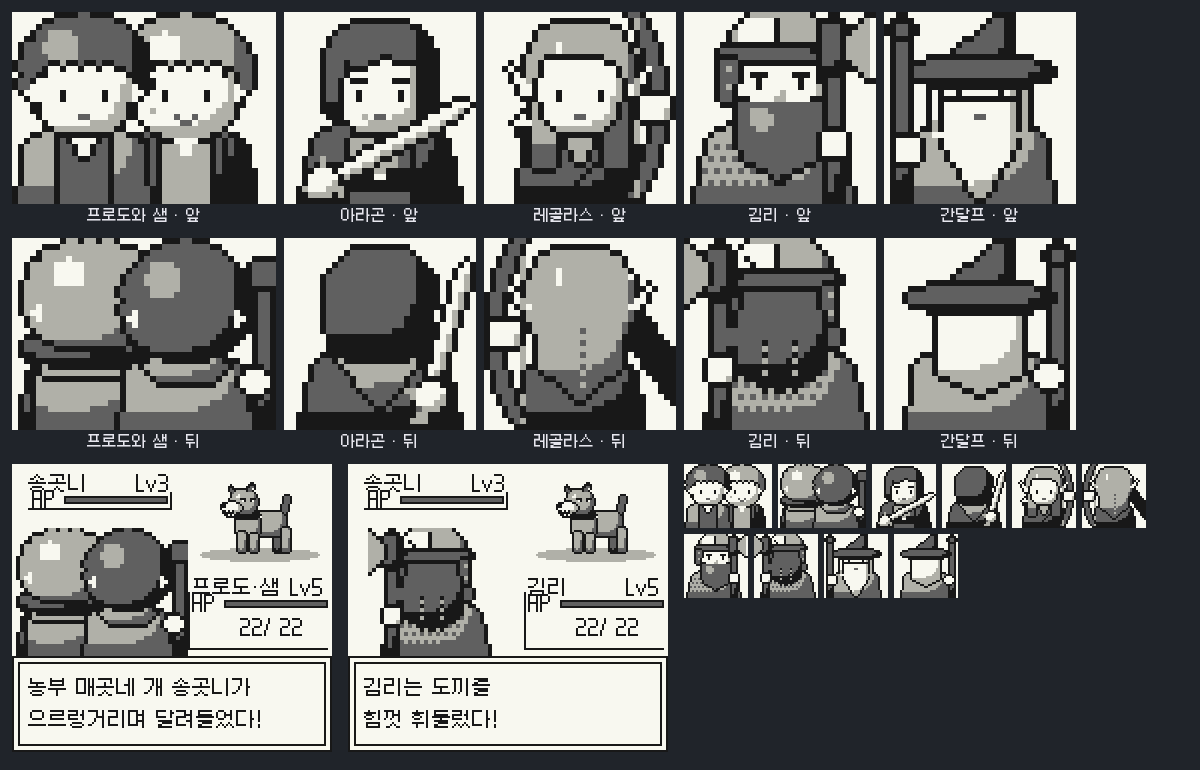
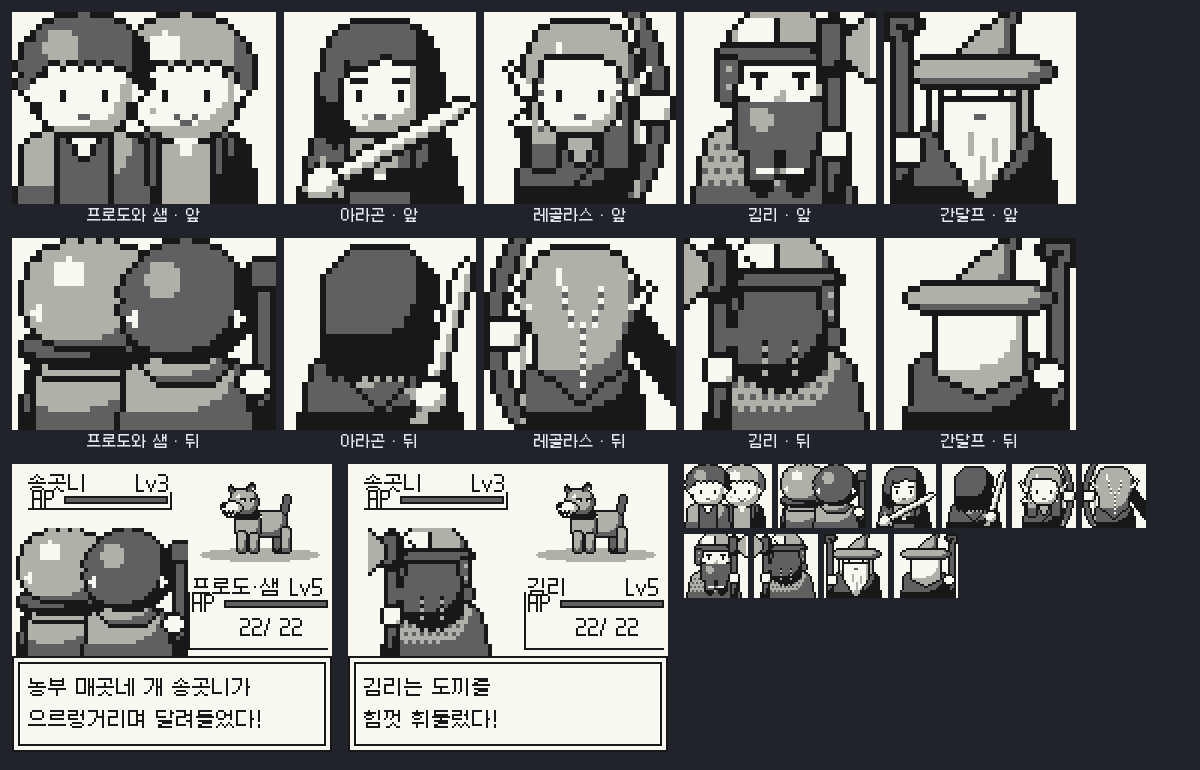
반지 원정: 영화 3부작 흐름 + 원작 대목으로 줄거리 재구성, 인물 외형 영화 분위기로
Claude-Session: https://claude.ai/code/session_01SP5jTWYuC4SCRJYicqB99F

diff --git a/ring/gb32.js b/ring/gb32.js
@@ -171,7 +171,7 @@
     fill(s, (x, y) => y >= 21 && Math.abs(x - 16) <= 4.5, 1, { cx: 16, cy: 25, rx: 4, ry: 6, shade: 2 }); // 가죽 웃옷
     fill(s, R(11, 27, 22, 29), 3, {});                                                                  // 칼띠
     stamp(s, 15, 27, ['00']);
-    const hid = fill(s, OR(E(16, 10.5, 9, 8.6), AND(R(7, 10, 25, 19), (x, y) => (Math.abs(x - 16) > 5 || y < 12) && y < 18.5 - (Math.floor(x) % 2))), 2, { cx: 16, cy: 10, rx: 9, ry: 9, shade: 3, at: 0.2 });
+    const hid = fill(s, OR(E(16, 10.5, 9, 8.6), AND(R(6, 10, 26, 23), (x, y) => (Math.abs(x - 16) > 5.5 || y < 12) && y < 22.5 - (Math.floor(x) % 2) - (Math.abs(x - 16) > 8.5 ? 2 : 0))), 2, { cx: 16, cy: 10, rx: 9, ry: 9, shade: 3, at: 0.2 });
     fill(s, (x, y) => E(16, 13, 6.4, 7.4)(x, y) && y > 7.6 + (x < 16 ? 1.4 : 0.4) + Math.abs(x - 16) * 0.2, 0, { cx: 16, cy: 13, rx: 6.4, ry: 7.4, shade: 1, at: 0.6 });
     stamp(s, 12, 13, EYE); stamp(s, 19, 13, EYE);
     stamp(s, 11, 11, ['333']); stamp(s, 18, 11, ['333']);                                              // 굵은 눈썹
@@ -185,7 +185,7 @@
     const s = mk();
     fill(s, body(16, 19, 11, 13), 2, { cx: 16, cy: 22, rx: 12, ry: 10, shade: 3 });
     fill(s, (x, y) => y >= 19 && y < 28 && Math.abs(x - 16) <= 8 - (y - 19) * 0.8, 1, { cx: 16, cy: 21, rx: 8, ry: 5, shade: 2 }); // 두건
-    fill(s, OR(E(16, 11, 9, 9), AND(R(7, 11, 25, 21), (x, y) => Math.abs(x - 16) <= 9 - (y - 11) * 0.12 && y < 20.5 - (Math.floor(x) % 2))), 2, { cx: 16, cy: 11, rx: 9, ry: 9, shade: 3, at: 0.2 });
+    fill(s, OR(E(16, 11, 9, 9), AND(R(6, 11, 26, 24), (x, y) => Math.abs(x - 16) <= 9.5 - (y - 11) * 0.1 && y < 23.5 - (Math.floor(x) % 2))), 2, { cx: 16, cy: 11, rx: 9, ry: 9, shade: 3, at: 0.2 });
     stamp(s, 25, 12, ['0', '0']);
     swordDiag(s, 22, 33, 31, 3);                                                                        // 앞으로 치켜든 장검
     fill(s, E(24.5, 26.5, 2.6, 2.2), 0, { cx: 24.5, cy: 26, rx: 2.6, ry: 2.2, shade: 1, at: 0.6 });
@@ -204,6 +204,7 @@
     stamp(s, 4, 9, ['0...', '.0..', '.00.', '..00', '..00']); stamp(s, 24, 9, flip(['0...', '.0..', '.00.', '..00', '..00']));
     stamp(s, 12, 13, EYE); stamp(s, 19, 13, EYE);
     stamp(s, 15, 17, ['22']);
+    for (const x of [9, 22]) for (let y = 9; y < 20; y++) px(s, x, y, y % 2 ? 2 : 0);                      // 관자놀이 땋은 머리
     // 왼손(화면 오른쪽)에 든 큰 활
     bow(s, 25, 1, 0, 31);
     fill(s, E(28.5, 16, 2.4, 2.4), 0, { cx: 28.5, cy: 16, rx: 2.4, ry: 2.4, shade: 1, at: 0.6 });
@@ -217,7 +218,8 @@
     fill(s, (x, y) => { const u = (x - 23) * 0.6 + (y - 12) * 0.8, v = (x - 23) * 0.8 - (y - 12) * 0.6; return u > 0 && u < 22 && Math.abs(v) < 2.2; }, 3, {});
     stamp(s, 21, 6, ['.0.0', '0000', '.00.']);
     fill(s, OR(E(16, 10.5, 8.8, 8.6), (x, y) => y > 10 && y < 27 - Math.abs(x - 16) * 0.8 && Math.abs(x - 16) < 7.5), 1, { cx: 16, cy: 12, rx: 9, ry: 12, shade: 2, at: 0.7, hi: 0, hiAt: -0.8 });
-    for (let y = 14; y < 25; y++) px(s, 16, y, y % 2 ? 2 : 1);                                         // 땋은 가닥
+    for (const x of [13, 19]) for (let y = 8; y < 15; y++) px(s, x + (y > 11 ? (x < 16 ? 1 : -1) : 0), y, y % 2 ? 2 : 0); // 관자놀이에서 뒤로 넘긴 땋은 머리
+    for (let y = 14; y < 25; y++) px(s, 16, y, y % 2 ? 2 : 0);
     stamp(s, 4, 8, ['0...', '.0..', '.00.', '..00']); stamp(s, 24, 8, flip(['0...', '.0..', '.00.', '..00']));
     // 왼손(화면 왼쪽)에 든 큰 활
     bow(s, 6, -1, 0, 31);
@@ -240,8 +242,9 @@
     fill(s, body(15, 19, 11, 13), 1, { cx: 15, cy: 22, rx: 12, ry: 10, shade: 2 });                // 사슬갑옷
     for (let y = 22; y < 32; y += 2) for (let x = 3 + (y % 4 ? 0 : 1); x < 29; x += 2) if (s.p[y * 32 + x] >= 0) px(s, x, y, 2);
     fill(s, E(16, 12, 7.4, 6.2), 0, { cx: 16, cy: 12, rx: 7.4, ry: 6.2, shade: 1, at: 0.6 });
-    fill(s, (x, y) => y > 14.5 + Math.max(0, 3 - Math.abs(x - 16)) * 0.4 && y < 28 - Math.abs(x - 16) * 0.6 && Math.abs(x - 16) < 7.5 - Math.max(0, y - 21) * 0.5, 2, { cx: 16, cy: 21, rx: 8, ry: 7, shade: 3, at: 0.9, hi: 1, hiAt: -0.5 });
+    fill(s, (x, y) => y > 14.5 + Math.max(0, 3 - Math.abs(x - 16)) * 0.4 && (y < 23 ? Math.abs(x - 16) < 7.5 : (y < 30 && Math.abs(Math.abs(x - 16) - 3.2) < 2.2 - Math.max(0, y - 27) * 0.4)), 2, { cx: 16, cy: 21, rx: 8, ry: 7, shade: 3, at: 0.9, hi: 1, hiAt: -0.5 });
     stamp(s, 11, 15, ['2222222222']);                                                                  // 콧수염
+    stamp(s, 12, 26, ['000']); stamp(s, 17, 26, ['000']);                                              // 땋은 수염 고리
     stamp(s, 15, 13, ['01', '11']);                                                                   // 큰 코
     stamp(s, 12, 11, EYE); stamp(s, 19, 11, EYE);
     stamp(s, 11, 10, ['333']); stamp(s, 18, 10, ['333']);
@@ -266,31 +269,31 @@
   // ───────── 간달프 ─────────
   function gandalfF() {
     const s = mk();
-    fill(s, body(16, 19, 10.5, 12), 1, { cx: 16, cy: 22, rx: 12, ry: 10, shade: 2 });               // 회색 망토
-    fill(s, E(16, 19.5, 8, 2), 0, { cx: 16, cy: 19.5, rx: 8, ry: 2, shade: 1 });                      // 은빛 목도리
-    fill(s, OR(R(8, 10, 11, 20), R(21, 10, 24, 20)), 0, { cx: 16, cy: 14, rx: 8, ry: 6, shade: 1 }); // 옆 흰머리
+    fill(s, body(16, 19, 10.5, 12), 2, { cx: 16, cy: 22, rx: 12, ry: 10, shade: 3 });               // 회색 망토
+        fill(s, OR(R(8, 10, 11, 20), R(21, 10, 24, 20)), 0, { cx: 16, cy: 14, rx: 8, ry: 6, shade: 1 }); // 옆 흰머리
     fill(s, E(16, 13.5, 6, 5.6), 0, { cx: 16, cy: 13, rx: 6, ry: 5.6, shade: 1, at: 0.55 });
     // 긴 수염
     fill(s, (x, y) => y > 15 && y < 31 && Math.abs(x - 16) < 6.5 - Math.max(0, y - 21) * 0.55, 0, { cx: 16, cy: 22, rx: 7, ry: 9, shade: 1, at: 0.45 });
     stamp(s, 12, 16, ['00000000']); stamp(s, 15, 17, ['22']);
+    for (const [x, y0] of [[14, 20], [18, 21], [16, 24]]) for (let y = y0; y < y0 + 4; y++) px(s, x, y, 1); // 수염 결
     stamp(s, 12, 13, EYE.slice(0, 1)); stamp(s, 19, 13, EYE.slice(0, 1));
     stamp(s, 10, 11, ['0000']); stamp(s, 18, 11, ['0000']);                                          // 덥수룩한 눈썹
     // 뾰족 모자 (끝이 살짝 꺾임)
-    fill(s, (x, y) => y < 10.5 && y > 0 && Math.abs(x - (16 + (10 - y) * (10 - y) * 0.05)) < y * 0.6 + 0.3, 2, { cx: 17, cy: 5, rx: 4, ry: 6, shade: 3, at: 0.3 });
-    fill(s, E(16, 10, 12, 1.9), 2, { cx: 16, cy: 10, rx: 12, ry: 2, shade: 3, at: 0.5 });
+    fill(s, (x, y) => y < 10.5 && y > 0 && Math.abs(x - (16 + (10 - y) * (10 - y) * 0.06)) < y * 0.6 + 0.3, 1, { cx: 17, cy: 5, rx: 4, ry: 6, shade: 2, at: 0.3 });
+    fill(s, E(16, 10, 12.5, 1.9), 1, { cx: 16, cy: 10, rx: 12, ry: 2, shade: 2, at: 0.5 });
     // 지팡이 + 손
-    fill(s, R(2, 4, 4, 32), 2, { cx: 3, cy: 18, rx: 2, ry: 14, shade: 3 }); stamp(s, 1, 1, ['.33.', '3223', '3223', '.33.']);
+    fill(s, R(2, 5, 4, 32), 2, { cx: 3, cy: 18, rx: 2, ry: 14, shade: 3 }); stamp(s, 0, 0, ['.3333.', '322223', '32..23', '322.3.', '.32...']); // 끝이 말린 옹이 지팡이
     fill(s, E(4, 23, 2.2, 2), 0);
     return finish(s);
   }
   function gandalfB() {
     const s = mk();
-    fill(s, body(16, 19, 10.5, 12), 1, { cx: 16, cy: 22, rx: 12, ry: 10, shade: 2 });
-    fill(s, R(28, 4, 30, 32), 2, { cx: 29, cy: 18, rx: 2, ry: 14, shade: 3 }); stamp(s, 27, 1, ['.33.', '3223', '3223', '.33.']);
+    fill(s, body(16, 19, 10.5, 12), 2, { cx: 16, cy: 22, rx: 12, ry: 10, shade: 3 });
+    fill(s, R(28, 5, 30, 32), 2, { cx: 29, cy: 18, rx: 2, ry: 14, shade: 3 }); stamp(s, 26, 0, flip(['.3333.', '322223', '32..23', '322.3.', '.32...']).map(r => r));
     fill(s, E(27.5, 23, 2.2, 2), 0);
     fill(s, (x, y) => y > 9 && y < 26 - Math.abs(x - 16) * 0.5 && Math.abs(x - 16) < 7.5, 0, { cx: 16, cy: 15, rx: 8, ry: 9, shade: 1, at: 0.5 });
-    fill(s, (x, y) => y < 10.5 && y > 0 && Math.abs(x - (16 + (10 - y) * (10 - y) * 0.05)) < y * 0.6 + 0.3, 2, { cx: 17, cy: 5, rx: 4, ry: 6, shade: 3, at: 0.3 });
-    fill(s, E(16, 10, 12, 1.9), 2, { cx: 16, cy: 10, rx: 12, ry: 2, shade: 3, at: 0.5 });
+    fill(s, (x, y) => y < 10.5 && y > 0 && Math.abs(x - (16 + (10 - y) * (10 - y) * 0.06)) < y * 0.6 + 0.3, 1, { cx: 17, cy: 5, rx: 4, ry: 6, shade: 2, at: 0.3 });
+    fill(s, E(16, 10, 12.5, 1.9), 1, { cx: 16, cy: 10, rx: 12, ry: 2, shade: 2, at: 0.5 });
     return finish(s);
   }
 

diff --git a/ring/기획.md b/ring/기획.md
@@ -6,27 +6,56 @@
 - 게임 화면 160×144(게임보이 컬러 해상도)를 폰 폭에 맞춰 확대. 아래에 십자키·A·B·START·SELECT.
 - 한글은 갈무리 도트 글꼴(OFL).
 
-## 인물 선택
-- 시작할 때 **프로도와 샘·아라곤·레골라스·김리·간달프** 중 주인공 하나를 고른다.
-- **프로도와 샘은 한 캐릭터**다. 따로 고르거나 혼자 플레이하지 않고, 그림(앞·뒤 모습)도 둘이 나란히 붙은 한 장(44×32)으로 쓴다.
-- 고른 인물마다 **도입부가 다르고**, 3장 깊은골에서 모두 만나 원정대가 된다. 그 뒤로는 고른 인물이 필드에서 걷는 인물이자 전투의 선두다.
-  - 프로도와 샘: 샤이어에서 출발 → 1·2장을 직접 걷는다
-  - 아라곤: 브리의 여관에서 호빗들을 기다리다 합류
-  - 레골라스: 어둠숲에서 깊은골로
-  - 김리: 외로운 산에서 깊은골로
-  - 간달프: 반지의 정체를 확인하는 여정 → 깊은골
-- 메리·피핀·보로미르는 이야기 중 동료로 합류(선택 인물 추가는 나중에).
+## 이야기 방향
+- **뼈대는 영화 3부작**(반지 원정대 → 두 개의 탑 → 왕의 귀환)의 흐름과 장면 순서를 따른다.
+- 영화가 건너뛰거나 줄인 **빈 곳은 원작 대목**으로 채워, 영화를 본 사람에게는 익숙하고 원작 팬에게는 "이것도 들어갔네" 싶게 만든다.
+- 대사는 영화·원작 문장을 그대로 쓰지 않고 새로 쓴다. 장면은 흐름만 따르고 연출·구도는 게임보이식으로 새로 만든다.
+- 표에서 **[원작]** 표시가 영화에 없던(또는 크게 줄었던) 원작 대목이다.
 
-## 줄거리 (7장)
-| 장 | 무대 | 주요 사건 | 우두머리 |
+## 인물 선택
+- 시작할 때 **프로도와 샘 · 아라곤 · 레골라스 · 김리 · 간달프** 중 하나를 고른다.
+- **프로도와 샘은 한 캐릭터**다. 따로 고르거나 혼자 플레이하지 않고, 그림(앞·뒤 모습)도 둘이 나란히 붙은 한 장(44×32)으로 쓴다.
+- 고른 인물마다 **도입부가 다르고**, 3장 깊은골에서 모두 만나 원정대가 된다. 원정대가 갈라진 뒤(6장~)에는 고른 인물이 속한 갈래를 걷는다.
+
+| 고른 인물 | 도입부 (1~2장 자리) | 6~8장 갈래 |
+|---|---|---|
+| 프로도와 샘 | 샤이어 출발 → 브리 → 바람마루 → 브루이넨 여울 | 반지 갈래 |
+| 아라곤 | 브리 「달리는 조랑말」에서 호빗들을 지켜보다 합류 → 바람마루 | 왕의 갈래 |
+| 레골라스 | 어둠숲: 골룸이 요정들의 감시를 뚫고 달아난 일[원작] → 깊은골로 소식을 전하러 | 왕의 갈래 |
+| 김리 | 외로운 산: 모르도르의 사자가 난쟁이들에게 반지를 캐묻고 감[원작] → 아버지 글로인과 깊은골로 | 왕의 갈래 |
+| 간달프 | 미나스 티리스 서고에서 반지의 정체 확인 → 오르상크에서 사루만에게 갇힘 → 큰독수리 타고 탈출 | 모리아 이후 → 백색의 간달프로 왕의 갈래 |
+
+- 메리·피핀·보로미르·파라미르·에오윈 등은 동료(파티)나 이벤트 인물로 나온다. 선택 인물로는 늘리지 않는다.
+
+## 줄거리 (8장 + 덧붙이는 장)
+### 1부 「반지 원정대」
+| 장 | 무대 | 영화 흐름 | 사이에 넣는 원작 대목 | 우두머리 |
+|---|---|---|---|---|
+| 1 | 샤이어 → 노루말 나루 | 빌보의 생일잔치, 반지를 물려받음, 간달프의 경고, 샘과 출발, 농부 매곳 밭에서 메리·피핀 합류, 검은 기사 피해 숨기 | **묵은숲·버드나무 영감, 톰 봄바딜의 집, 무덤 언덕**[원작] — 무덤 악령을 물리치고 서쪽나라 단검을 얻음 | 무덤 악령 |
+| 2 | 브리 → 바람마루 → 브루이넨 여울 | 달리는 조랑말, 성큼걸이, 바람마루 습격·프로도 부상, 여울에서 검은 기사를 물로 쓸어냄 | 여울로 가는 트롤숲 — 빌보 옛 모험 때 돌이 된 트롤들[원작] | 검은 기사 다섯 |
+| 3 | 깊은골 → 카라드라스 | 엘론드의 회의, 원정대 결성, 빌보가 스팅·미스릴 갑옷을 줌, 눈보라 고개 | 원정대 떠나기 전 정찰대가 돌아오는 두 달[원작] — 깊은골 쉼터·상점 구간 | — |
+| 4 | 모리아 | 호수의 감시자, 발린의 무덤, 동굴 트롤, 크하자드둠 다리에서 간달프 추락 | 마자르불 방 문에서 간달프가 어둠의 존재와 문 봉인을 겨루는 대목[원작] | 동굴 트롤 |
+| 5 | 로스로리엔 → 대강 → 아몬 헨 | 갈라드리엘의 거울·선물(요정 망토·렘바스·빛의 병), 보로미르의 마지막 싸움, 원정대가 갈라짐 | 할디르가 이끄는 숲길 — 김리 눈가리개 다툼과 화해, 케린 암로스 언덕[원작] | 우루크하이 대장 |
+
+### 2부 「두 개의 탑」 — 두 갈래
+| 장 | 반지 갈래 (프로도와 샘) | 왕의 갈래 (아라곤·레골라스·김리·간달프) | 우두머리 |
 |---|---|---|---|
-| 1 | 샤이어 → 묵은숲 → 무덤 언덕 | 반지를 맡고 떠남, 검은 기사 피해 숨기 | 무덤 악령 |
-| 2 | 브리 → 바람마루 | 아라곤 합류, 프로도 부상 | 검은 기사 다섯 |
-| 3 | 깊은골 | 쉼터·상점, 회의, 원정대 결성 | — |
-| 4 | 모리아 | 어둠의 광산 던전, 불꽃의 악마에게서 탈출(간달프 이탈) | 동굴 트롤 |
-| 5 | 로스로리엔 → 대강 | 선물(장비), 원정대가 갈라짐 | 우루크하이 |
-| 6 | 두 갈래 길 | 프로도·샘: 골룸 동행 / 아라곤·레골라스·김리: 헬름협곡 방어전 | 쉴로브 / 연속 파도 |
-| 7 | 운명의 산 | 마지막 여정 | 최종 |
+| 6 | 에민 무일에서 골룸을 길들임 → 죽음늪 → 검은 문 → 이실리엔에서 파라미르에게 붙잡혀 오스길리아스까지 | 우루크하이 추격 → 팡고른에서 백색의 간달프 → 에도라스 → 헬름협곡 방어전 / 메리·피핀의 엔트 회의·아이센가드 공격은 막간 장면 | 나즈굴의 날짐승 / 연속 파도 |
+| | 사이 원작 대목: 헨네스 안눈 폭포 동굴의 하룻밤[원작] | 사이 원작 대목: 아이센가드 폐허에서 사루만과의 담판, 팔란티르[원작·영화 극장판에 없음] | |
+
+### 3부 「왕의 귀환」
+| 장 | 반지 갈래 | 왕의 갈래 | 우두머리 |
+|---|---|---|---|
+| 7 | 미나스 모르굴 → 키리스 웅골 계단 → 쉴로브의 굴 → 키리스 웅골 탑에서 샘이 프로도 구출 | 미나스 티리스 공성(간달프) → 망자의 길 → 펠렌노르 평원 → 검은 문 앞 마지막 싸움 | 쉴로브 / 앙그마르의 마술사왕 |
+| | 사이 원작 대목: 반지를 맡은 샘이 **반지의 유혹(온 땅을 정원으로 만드는 환상)을 이겨내는** 대목[원작] | 사이 원작 대목: 드루아단 숲의 야인들이 길 안내[원작] | |
+| 8 | 운명의 산 — 마지막 오르막, 골룸과의 마지막 | 검은 문 앞에서 시간을 버는 싸움 | 최종 |
+
+### 덧붙이는 장 (엔딩 뒤)
+- **샤이어 소탕**[원작] — 영화에 없는 원작의 결말. 돌아온 호빗들이 망가진 샤이어를 되찾고 「샤키」를 몰아낸다. 클리어 뒤 보너스 장.
+
+## 장비 흐름 (영화 + 원작)
+- 프로도: 지팡이 → 무덤 언덕의 서쪽나라 단검[원작] → 깊은골에서 스팅·미스릴 갑옷 → 로리엔 요정 망토·빛의 병
+- 스팅은 오크가 가까우면 푸르게 빛난다(전투 전 경고 연출).
 
 ## 전투 (포켓몬식 화면)
 - 위에 적 앞모습, 아래에 내 인물 뒷모습, 맨 아래 대사창. 메뉴: 싸운다 / 가방 / 동료 / 도망.
@@ -38,20 +67,24 @@
 ## 필드
 - 16×16 타일 지도, 4방향 걷기, 풀숲·어둠 속에서 적 조우, 마을 사람과 대화, 상자.
 
-## 도트 규격
+## 도트 규격 (확정)
+- **게임보이 4단계 무채색**(흰·밝은회·어두운회·검정). 바깥선과 부위 사이 선은 검정, 부위마다 밑색 + 그늘 한 단계.
+- 2등신(머리가 큰) 도트, 각진 덩어리.
+
 | 쓰임 | 크기 |
 |---|---|
-| 인물 초상(선택 화면·대화) | 24×24 |
+| 인물 앞·뒤 모습 | 32×32 (프로도와 샘은 44×32 한 장) |
+| 전투 뒷모습 | 32×32를 2배(초대 포켓몬 방식) |
 | 필드 걷기 | 16×16, 4방향 × 2동작 |
-| 전투 뒷모습 | 24×24를 2배(포켓몬 1세대 방식) |
-| 적 | 40×40, 우두머리 56×56 |
-- 외곽선 + 인물마다 4~6색. 영화 장면·배우 모습은 참고하지 않고 원작 묘사와 역할로 디자인.
+| 적 | 40×40, 우두머리 56×56 (1배) |
+- 인물 외형은 **영화 분위기**(차림새·무기·머리 모양)를 따른다. 배우 얼굴을 닮게 그리거나 영화 장면 구도를 그대로 옮기지는 않는다.
 
 ## 만드는 순서
 1. 게임기 화면·조작, 제목, 인물 선택, 1장(샤이어 → 무덤 언덕), 저장
-2. 2장 브리·바람마루, 3장 깊은골(원정대 결성), 나머지 인물 도입부
+2. 2장 브리·바람마루·여울, 3장 깊은골(원정대 결성), 나머지 인물 도입부
 3. 4장 모리아
-4. 5장 로스로리엔·대강
-5. 6장 두 갈래 길
-6. 7장 운명의 산, 엔딩
+4. 5장 로스로리엔·대강·아몬 헨
+5. 6장 두 갈래(반지 갈래 / 왕의 갈래)
+6. 7장 키리스 웅골 / 펠렌노르, 8장 운명의 산, 엔딩
+7. 덧붙이는 장 「샤이어 소탕」
 - 음악은 나중에(사용자가 구한 무료 음원 또는 새로 만든 8비트 곡).

diff --git a/ring/제작확인서.md b/ring/제작확인서.md
@@ -18,7 +18,9 @@
 - 원작 권리자가 요청하면 즉시 내린다.
 
 ## 5. 구현 범위 (합의 사항)
-- 영화 장면·배우 모습·공식 그림을 베끼지 않고 도트를 새로 그린다.
+- (2026-10-01 사용자 결정) 이야기 흐름은 **영화 3부작**을 따르고, 빈 곳은 원작 대목으로 채운다. 인물 외형은 **영화 분위기**(차림새·무기·머리 모양)를 따른다.
+- 그래도 배우 얼굴을 닮게 그리거나, 영화 장면 구도·공식 그림을 베끼지 않고 도트를 새로 그린다.
+- 영화 대사도 그대로 쓰지 않고 새로 쓴다.
 - 원작 문장을 그대로 옮기지 않고 대사는 새로 쓴다.
 - 영화 음악을 쓰지 않는다.
 
